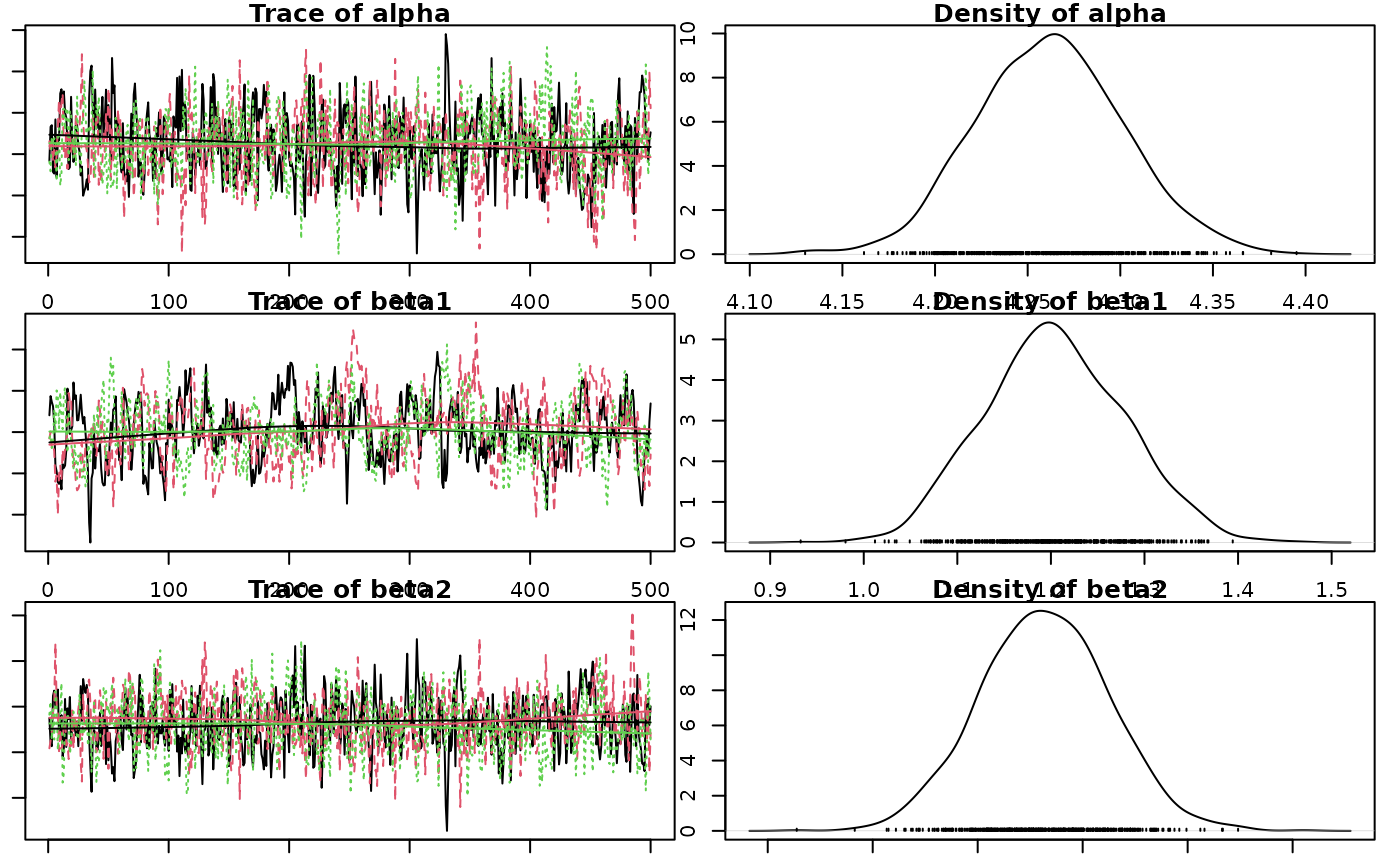
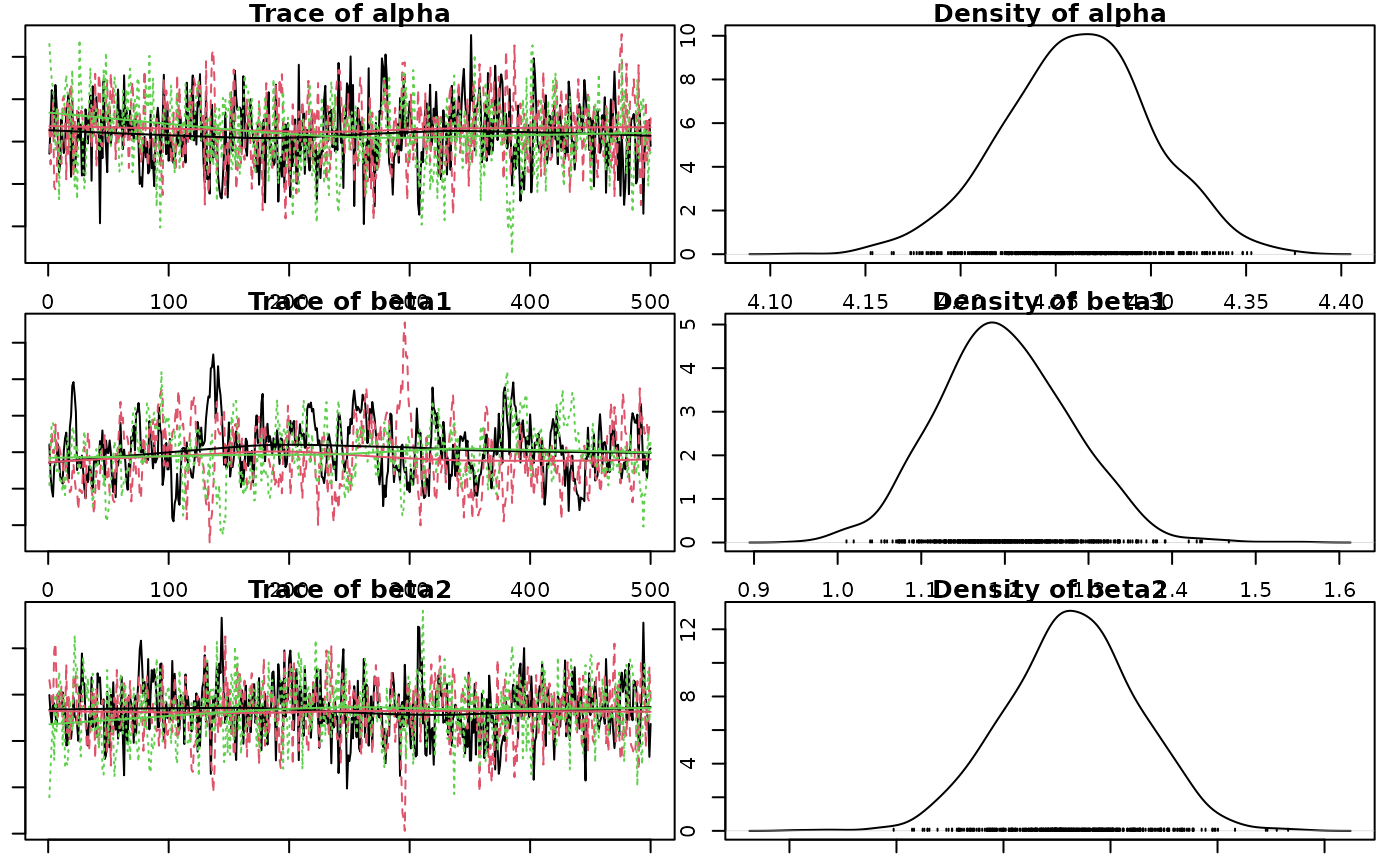
Deploying to gh-pages from @ poissonconsulting/jmbr@af54c096ace08e146f7843da13502a7dddb5c630 🚀

diff --git a/articles/jmbr.html b/articles/jmbr.html
@@ -278,14 +278,14 @@ value and discarding all other values.</p>
 <span><span class="co">#&gt; <span style="color: #949494;"># A tibble: 1 × 8</span></span></span>
 <span><span class="co">#&gt;       n     K nchains niters nthin   ess  rhat converged</span></span>
 <span><span class="co">#&gt;   <span style="color: #949494; font-style: italic;">&lt;int&gt;</span> <span style="color: #949494; font-style: italic;">&lt;int&gt;</span>   <span style="color: #949494; font-style: italic;">&lt;int&gt;</span>  <span style="color: #949494; font-style: italic;">&lt;int&gt;</span> <span style="color: #949494; font-style: italic;">&lt;int&gt;</span> <span style="color: #949494; font-style: italic;">&lt;int&gt;</span> <span style="color: #949494; font-style: italic;">&lt;dbl&gt;</span> <span style="color: #949494; font-style: italic;">&lt;lgl&gt;</span>    </span></span>
-<span><span class="co">#&gt; <span style="color: #BCBCBC;">1</span>    40     6       3    500    10   217  1.01 TRUE</span></span>
+<span><span class="co">#&gt; <span style="color: #BCBCBC;">1</span>    40     6       3    500    10   168  1.03 TRUE</span></span>
 <span><span class="co">#&gt; Warning in value[[3L]](cond): beep() could not play the sound due to the following error:</span></span>
 <span><span class="co">#&gt; Error in play.default(x, rate, ...): no audio drivers are available</span></span>
 <span><span class="va">analysis</span> <span class="op">&lt;-</span> <span class="fu"><a href="https://rdrr.io/pkg/embr/man/reanalyse.html" class="external-link">reanalyse</a></span><span class="op">(</span><span class="va">analysis</span><span class="op">)</span></span>
 <span><span class="co">#&gt; <span style="color: #949494;"># A tibble: 1 × 8</span></span></span>
 <span><span class="co">#&gt;       n     K nchains niters nthin   ess  rhat converged</span></span>
 <span><span class="co">#&gt;   <span style="color: #949494; font-style: italic;">&lt;int&gt;</span> <span style="color: #949494; font-style: italic;">&lt;int&gt;</span>   <span style="color: #949494; font-style: italic;">&lt;int&gt;</span>  <span style="color: #949494; font-style: italic;">&lt;int&gt;</span> <span style="color: #949494; font-style: italic;">&lt;int&gt;</span> <span style="color: #949494; font-style: italic;">&lt;int&gt;</span> <span style="color: #949494; font-style: italic;">&lt;dbl&gt;</span> <span style="color: #949494; font-style: italic;">&lt;lgl&gt;</span>    </span></span>
-<span><span class="co">#&gt; <span style="color: #BCBCBC;">1</span>    40     6       3    500    10   217  1.01 TRUE</span></span>
+<span><span class="co">#&gt; <span style="color: #BCBCBC;">1</span>    40     6       3    500    10   168  1.03 TRUE</span></span>
 <span><span class="co">#&gt; Warning in value[[3L]](cond): beep() could not play the sound due to the following error:</span></span>
 <span><span class="co">#&gt; Error in play.default(x, rate, ...): no audio drivers are available</span></span></code></pre></div>
 <p><strong>Analysis Table:</strong></p>
@@ -329,12 +329,12 @@ between- and within-chain estimates for model parameters.
 <span><span class="co">#&gt; <span style="color: #949494;"># A tibble: 6 × 5</span></span></span>
 <span><span class="co">#&gt;   term        estimate   lower   upper svalue</span></span>
 <span><span class="co">#&gt;   <span style="color: #949494; font-style: italic;">&lt;term&gt;</span>         <span style="color: #949494; font-style: italic;">&lt;dbl&gt;</span>   <span style="color: #949494; font-style: italic;">&lt;dbl&gt;</span>   <span style="color: #949494; font-style: italic;">&lt;dbl&gt;</span>  <span style="color: #949494; font-style: italic;">&lt;dbl&gt;</span></span></span>
-<span><span class="co">#&gt; <span style="color: #BCBCBC;">1</span> alpha         4.26    4.19    4.34   10.6  </span></span>
-<span><span class="co">#&gt; <span style="color: #BCBCBC;">2</span> beta1         1.20    1.07    1.35   10.6  </span></span>
-<span><span class="co">#&gt; <span style="color: #BCBCBC;">3</span> beta2        -<span style="color: #BB0000;">0.018</span><span style="color: #BB0000; text-decoration: underline;">4</span> -<span style="color: #BB0000;">0.077</span><span style="color: #BB0000; text-decoration: underline;">5</span>  0.041<span style="text-decoration: underline;">3</span>  0.857</span></span>
-<span><span class="co">#&gt; <span style="color: #BCBCBC;">4</span> beta3        -<span style="color: #BB0000;">0.276</span>  -<span style="color: #BB0000;">0.353</span>  -<span style="color: #BB0000;">0.208</span>  10.6  </span></span>
-<span><span class="co">#&gt; <span style="color: #BCBCBC;">5</span> log_sAnnual  -<span style="color: #BB0000;">2.21</span>   -<span style="color: #BB0000;">2.99</span>   -<span style="color: #BB0000;">1.75</span>   10.6  </span></span>
-<span><span class="co">#&gt; <span style="color: #BCBCBC;">6</span> sAnnual       0.110   0.050<span style="text-decoration: underline;">1</span>  0.175  10.6</span></span></code></pre></div>
+<span><span class="co">#&gt; <span style="color: #BCBCBC;">1</span> alpha         4.26    4.18    4.33   10.6  </span></span>
+<span><span class="co">#&gt; <span style="color: #BCBCBC;">2</span> beta1         1.19    1.05    1.35   10.6  </span></span>
+<span><span class="co">#&gt; <span style="color: #BCBCBC;">3</span> beta2        -<span style="color: #BB0000;">0.017</span><span style="color: #BB0000; text-decoration: underline;">8</span> -<span style="color: #BB0000;">0.079</span><span style="color: #BB0000; text-decoration: underline;">2</span>  0.039<span style="text-decoration: underline;">1</span>  0.864</span></span>
+<span><span class="co">#&gt; <span style="color: #BCBCBC;">4</span> beta3        -<span style="color: #BB0000;">0.273</span>  -<span style="color: #BB0000;">0.354</span>  -<span style="color: #BB0000;">0.200</span>  10.6  </span></span>
+<span><span class="co">#&gt; <span style="color: #BCBCBC;">5</span> log_sAnnual  -<span style="color: #BB0000;">2.23</span>   -<span style="color: #BB0000;">3.26</span>   -<span style="color: #BB0000;">1.74</span>   10.6  </span></span>
+<span><span class="co">#&gt; <span style="color: #BCBCBC;">6</span> sAnnual       0.107   0.038<span style="text-decoration: underline;">3</span>  0.176  10.6</span></span></code></pre></div>
 <p>The estimate is the <strong>median</strong> by default.</p>
 <p>The s-value is the <strong>suprisal</strong> value, which is a
 measure of directionality with respect to zero.</p>

diff --git a/articles/jmbr.md b/articles/jmbr.md
@@ -214,14 +214,14 @@ analysis <- analyse(model, data = data)
 #> # A tibble: 1 × 8
 #>       n     K nchains niters nthin   ess  rhat converged
 #>   <int> <int>   <int>  <int> <int> <int> <dbl> <lgl>    
-#> 1    40     6       3    500    10   217  1.01 TRUE
+#> 1    40     6       3    500    10   168  1.03 TRUE
 #> Warning in value[[3L]](cond): beep() could not play the sound due to the following error:
 #> Error in play.default(x, rate, ...): no audio drivers are available
 analysis <- reanalyse(analysis)
 #> # A tibble: 1 × 8
 #>       n     K nchains niters nthin   ess  rhat converged
 #>   <int> <int>   <int>  <int> <int> <int> <dbl> <lgl>    
-#> 1    40     6       3    500    10   217  1.01 TRUE
+#> 1    40     6       3    500    10   168  1.03 TRUE
 #> Warning in value[[3L]](cond): beep() could not play the sound due to the following error:
 #> Error in play.default(x, rate, ...): no audio drivers are available
 ```
@@ -261,12 +261,12 @@ coef(analysis, directional_information = FALSE)
 #> # A tibble: 6 × 5
 #>   term        estimate   lower   upper svalue
 #>   <term>         <dbl>   <dbl>   <dbl>  <dbl>
-#> 1 alpha         4.26    4.19    4.34   10.6  
-#> 2 beta1         1.20    1.07    1.35   10.6  
-#> 3 beta2        -0.0184 -0.0775  0.0413  0.857
-#> 4 beta3        -0.276  -0.353  -0.208  10.6  
-#> 5 log_sAnnual  -2.21   -2.99   -1.75   10.6  
-#> 6 sAnnual       0.110   0.0501  0.175  10.6
+#> 1 alpha         4.26    4.18    4.33   10.6  
+#> 2 beta1         1.19    1.05    1.35   10.6  
+#> 3 beta2        -0.0178 -0.0792  0.0391  0.864
+#> 4 beta3        -0.273  -0.354  -0.200  10.6  
+#> 5 log_sAnnual  -2.23   -3.26   -1.74   10.6  
+#> 6 sAnnual       0.107   0.0383  0.176  10.6
 ```
 
 The estimate is the **median** by default.
